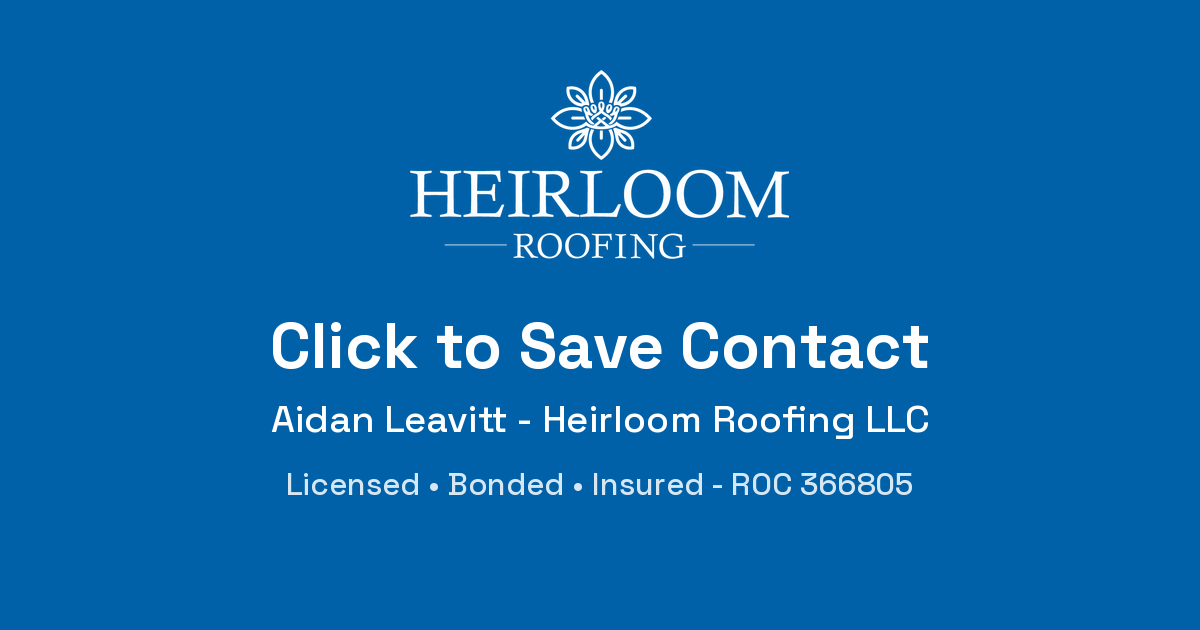
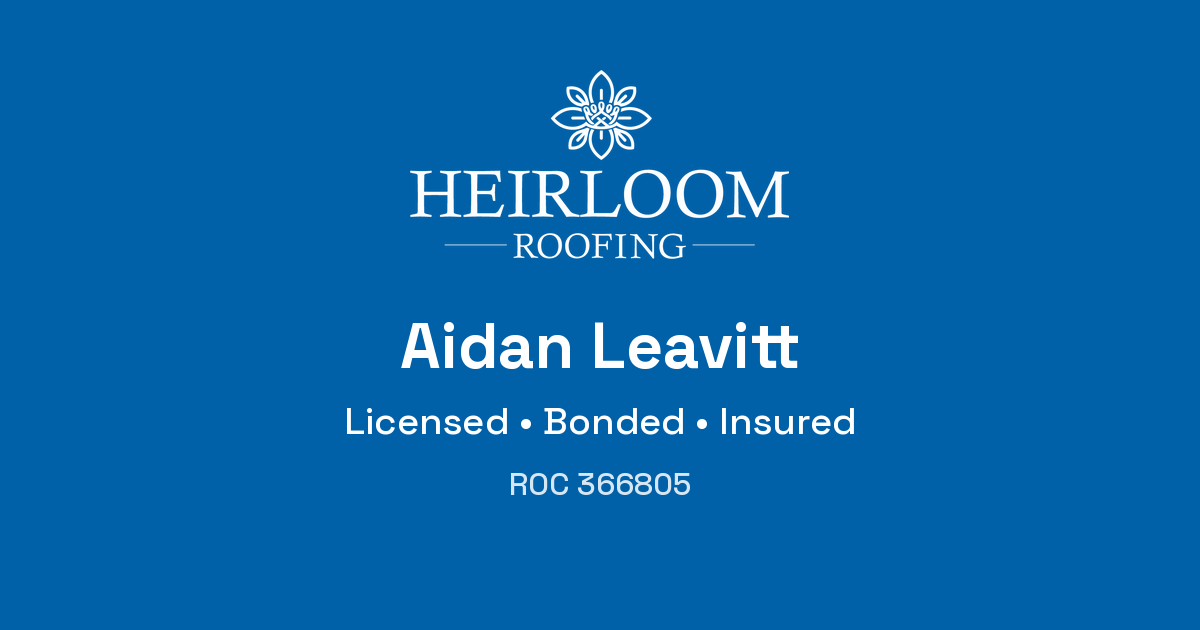
Preview: headline is his name, drop Click to Save Contact and LLC suffix; dedupe company name under name on page

Changed region(s): [[0.2158, 0.5127, 0.7708, 0.6032], [0.2158, 0.6333, 0.7708, 0.6937], [0.2158, 0.754, 0.7708, 0.7841]]

diff --git a/card.html b/card.html
@@ -6,12 +6,12 @@
 <title>Aidan Leavitt | Heirloom Roofing</title>
 <meta name="description" content="Aidan Leavitt, Heirloom Roofing - save contact, text, call, email, and verify license ROC 366805.">
 <meta property="og:type" content="profile">
-<meta property="og:title" content="Click to Save Contact">
+<meta property="og:title" content="Aidan Leavitt">
 <meta property="og:description" content="Heirloom Roofing - save Aidan's contact, text, call, or email.">
 <meta property="og:url" content="https://theleavittgroup.github.io/heirloom/card.html">
 <meta property="og:image" content="https://theleavittgroup.github.io/heirloom/share-card.png">
 <meta name="twitter:card" content="summary_large_image">
-<meta name="twitter:title" content="Click to Save Contact">
+<meta name="twitter:title" content="Aidan Leavitt">
 <meta name="twitter:image" content="https://theleavittgroup.github.io/heirloom/share-card.png">
 <style>
   :root { --brand:#0161A8; --brand-dark:#014e85; --ink:#1c2b36; --muted:#5a6b78; --paper:#f7f5f0; }
@@ -67,7 +67,7 @@
 <main>
   <div class="cardbox">
     <h1>Aidan Leavitt</h1>
-    <div class="role">Heirloom Roofing &bull; Licensed Arizona contractor, ROC 366805</div>
+    <div class="role">Licensed Arizona contractor, ROC 366805</div>
     <div class="actions">
       <a class="btn primary" href="aidan-leavitt.vcf">Save Contact</a>
       <a class="btn" href="sms:+19599298585">Text</a>
